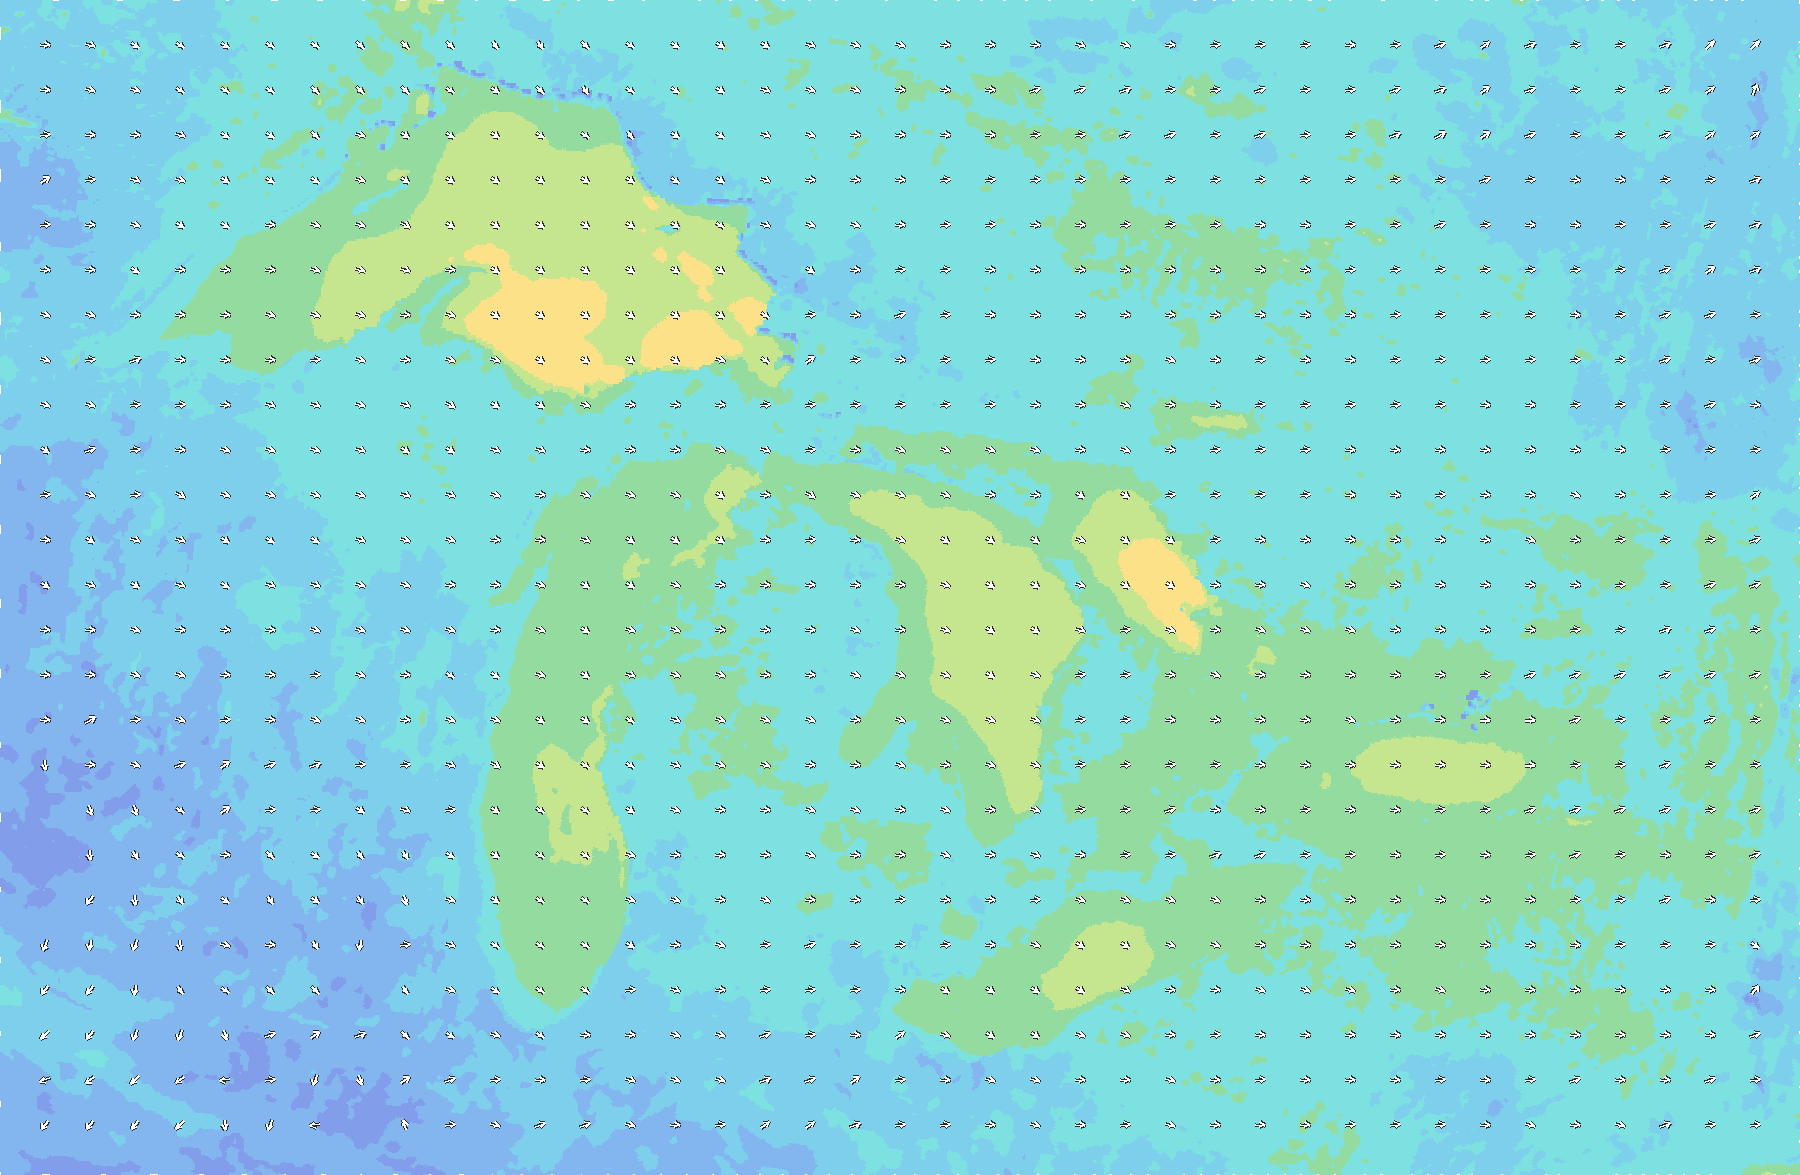
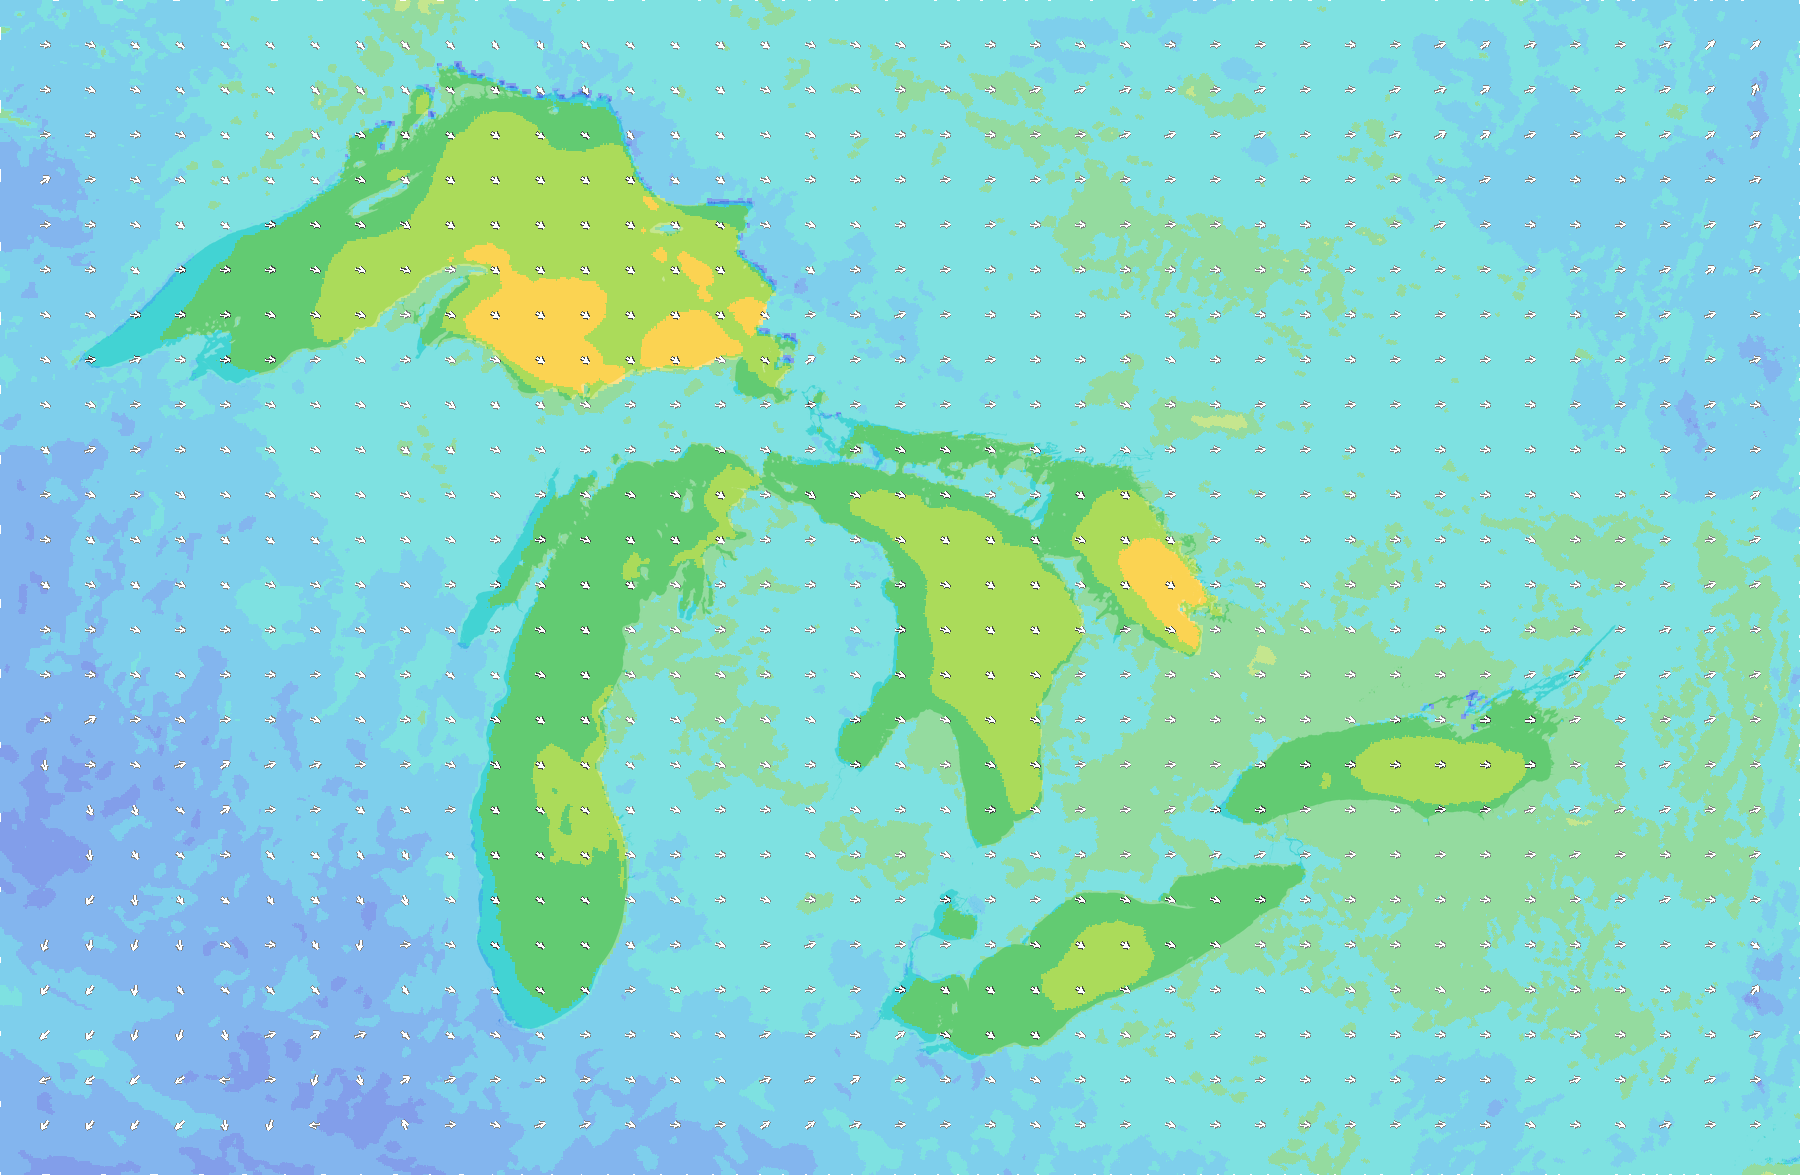
Live Wind: dual-opacity shoreline merge, lakes alpha 205 (~80%), land alpha 140 (~55%)

diff --git a/scripts/build_wind.py b/scripts/build_wind.py
@@ -68,11 +68,13 @@ BUOY_POS = {  # NDBC (lon, lat) — QC reference only
 # Full-basin render generation: bump to force one redeploy of the expanded
 # (GLWU+HRRR, no shoreline cut) raster even when the GLWU cycle is unchanged.
 # Afterwards the source id tracks both model cycles.
-RENDER_TAG = "fullbasin-g2"
+RENDER_TAG = "fullbasin-g3"
 
-# Semi-transparent fill so the base-map land stays visible underneath the
-# gradient (arrows paint at their own near-opaque alphas and stay legible).
-WIND_ALPHA = 140
+# Dual-opacity finish: open-water pixels render at the original ~80% lake
+# opacity; land pixels stay semi-transparent so the base-map terrain shows
+# through (arrows paint at their own near-opaque alphas and stay legible).
+WIND_ALPHA_WATER = 205
+WIND_ALPHA_LAND = 140
 
 HRRR_MSGS = [("UGRD", "10 m above ground"), ("VGRD", "10 m above ground")]
 CANVAS_ARROW_STEP_PX = 45  # canvas-space sampling for land+water arrows
@@ -412,7 +414,7 @@ def _build(got, used_url, datestr, cycle, raw_path):
     ook = np.isfinite(field)
     fi = np.clip(np.round(field[ook]).astype(int), 0, 12)
     rgba[ook, 0:3] = lut[fi]
-    rgba[ook, 3] = WIND_ALPHA
+    rgba[ook, 3] = WIND_ALPHA_LAND
 
     rgba, n_arrows = paint_arrows(
         rgba, arrow_points_canvas(comb_u, comb_v, CANVAS_ARROW_STEP_PX))
@@ -420,8 +422,18 @@ def _build(got, used_url, datestr, cycle, raw_path):
     if n_arrows < 50:
         print(f"[{PRODUCT}] VALIDATION FAILED: too few arrows. Keeping previous.")
         return 2
+    # Dual-opacity shoreline merge (the original water-only look over the
+    # lakes, see-through over land): the shared NOAA shoreline mask drives
+    # per-pixel alpha — 205 over open water, 140 over land, antialiased
+    # blend along the shore. Arrows keep their own near-opaque alphas.
+    from geospatial_utils import load_watermask
+    _wm = load_watermask()
+    _dual = np.round(WIND_ALPHA_LAND + (WIND_ALPHA_WATER - WIND_ALPHA_LAND)
+                     * _wm).astype(np.uint8)
+    _painted = rgba[:, :, 3] > 0
+    rgba[_painted, 3] = _dual[_painted]
     # Full basin rectangle (atmospheric layer, like leaf footprint): only
-    # missing source data is transparent — no shoreline cut. RGB bleed keeps
+    # missing source data is transparent. RGB bleed keeps
     # the anti-fringe contract for bilinear clients (Google Earth).
     rgba = bleed_rgb_into_transparent(rgba)
     save_png(rgba, os.path.join(stage_prod, "current.png"))
@@ -446,7 +458,8 @@ def _build(got, used_url, datestr, cycle, raw_path):
         f"Source: GLWU v2.1 U/V {datestr} t{cycle}z (water) + HRRR 10 m "
         f"{hrrr_dd} t{hrrr_cc}z (land fill)  |  "
         f"Processed {now_det_str()}",
-        note="Dark purple = Force 12 hurricane-force (≥64 kt) ONLY.")
+        note="Dark purple = Force 12 hurricane-force (≥64 kt) ONLY. "
+             "Lakes ~80% opacity; land ~55% so terrain shows through.")
 
     meta = base_metadata(
         PRODUCT, CONFIG["title"], CONFIG["freshness_label"],
@@ -462,8 +475,10 @@ def _build(got, used_url, datestr, cycle, raw_path):
                                 "40.5..49.5 (same footprint as Live Leaf "
                                 "Color): GLWU over water, HRRR 10 m wind "
                                 "fills land + GLWU gaps + canvas edges; "
-                                "transparent only where both sources lack "
-                                "data; never zero-filled."))
+                                "dual opacity from the shared NOAA shoreline "
+                                "mask (water alpha 205 ~80%, land alpha 140 "
+                                "~55%); transparent only where both sources "
+                                "lack data; never zero-filled."))
     meta["legend_size"] = [lw, lh]
     meta["legend_scale_html"] = scale_html
     meta["model_cycle"] = f"{datestr} t{cycle}z + {hrrr_dd} t{hrrr_cc}z"
@@ -481,8 +496,10 @@ def _build(got, used_url, datestr, cycle, raw_path):
         "gaps + canvas edges. Arrows point along the (U,V) movement "
         "vector (no FROM->TOWARD reversal needed for GRIB components); "
         "calm (<0.5 m/s) gets no arrow. Full basin rectangle "
-        "(lon -93..-73.5, lat 40.5..49.5, the Live Leaf Color footprint): "
-        "no shoreline cut; edge RGB bled into transparent pixels "
+        "(lon -93..-73.5, lat 40.5..49.5, the Live Leaf Color footprint) "
+        "with dual opacity from the shared NOAA shoreline mask: open water "
+        "~80% (alpha 205, the original lakes look), land ~55% (alpha 140) "
+        "so terrain shows through; edge RGB bled into transparent pixels "
         "(anti-fringe for bilinear clients).")
     meta["stats"] = {
         "valid_cells": n_combined,
